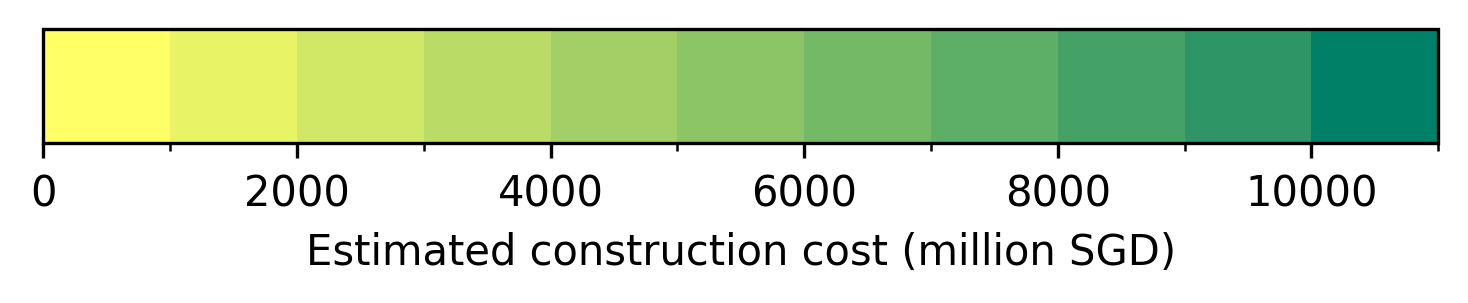
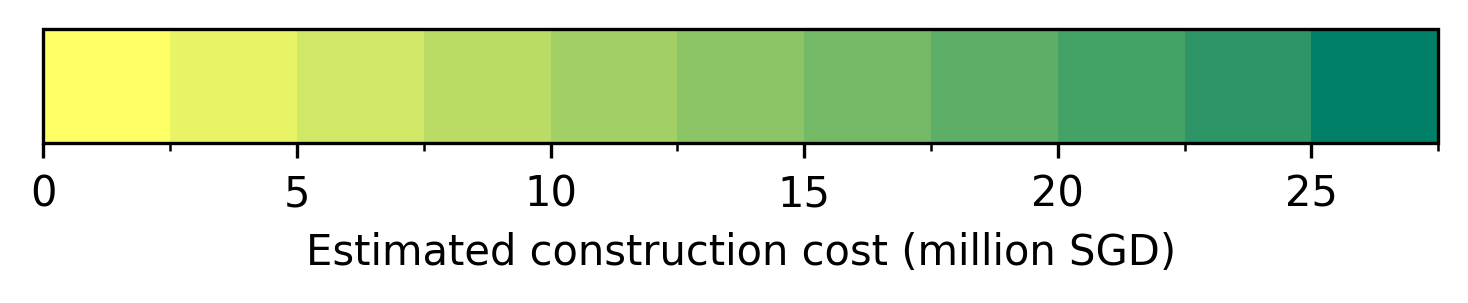
dev-sea-level-vis: refine cost colours

diff --git a/Deploy/stacks/Singapore-sea-level-rise/colorbar_generator/colourbar.py b/Deploy/stacks/Singapore-sea-level-rise/colorbar_generator/colourbar.py
@@ -7,12 +7,12 @@ import json
 
 def create_colors():
     start = 0
-    end = 1.1 * 10**10
-    num_points = 12
+    end = 2.5 * 10 ** 7
+    num_points = 11
 
-    array_for_mapbox_expression = np.linspace(start, end, num_points)
-    array_for_colorbar = np.linspace(
-        start, end / 10**6, num_points)  # convert to million
+    array_for_mapbox_expression = np.linspace(start, end, num_points).tolist()
+    array_for_mapbox_expression.append(1.1 * 10**10)
+    array_for_colorbar = [x / (10.0 ** 6) for x in array_for_mapbox_expression]
 
     fig, ax = plt.subplots(figsize=(6, 1))
     fig.subplots_adjust(bottom=0.5)
@@ -44,7 +44,7 @@ def generate_mapbox_expressions(input_dict):
             ["<=", ["get", "cost"], key],
             value
         ])
-    expression.append("#8D99AE")  # default colours
+    expression.append("#8D99AE")  # default colour
     f = open("mapbox_expression.txt", "w")
     f.write(json.dumps(expression))
     f.close()
